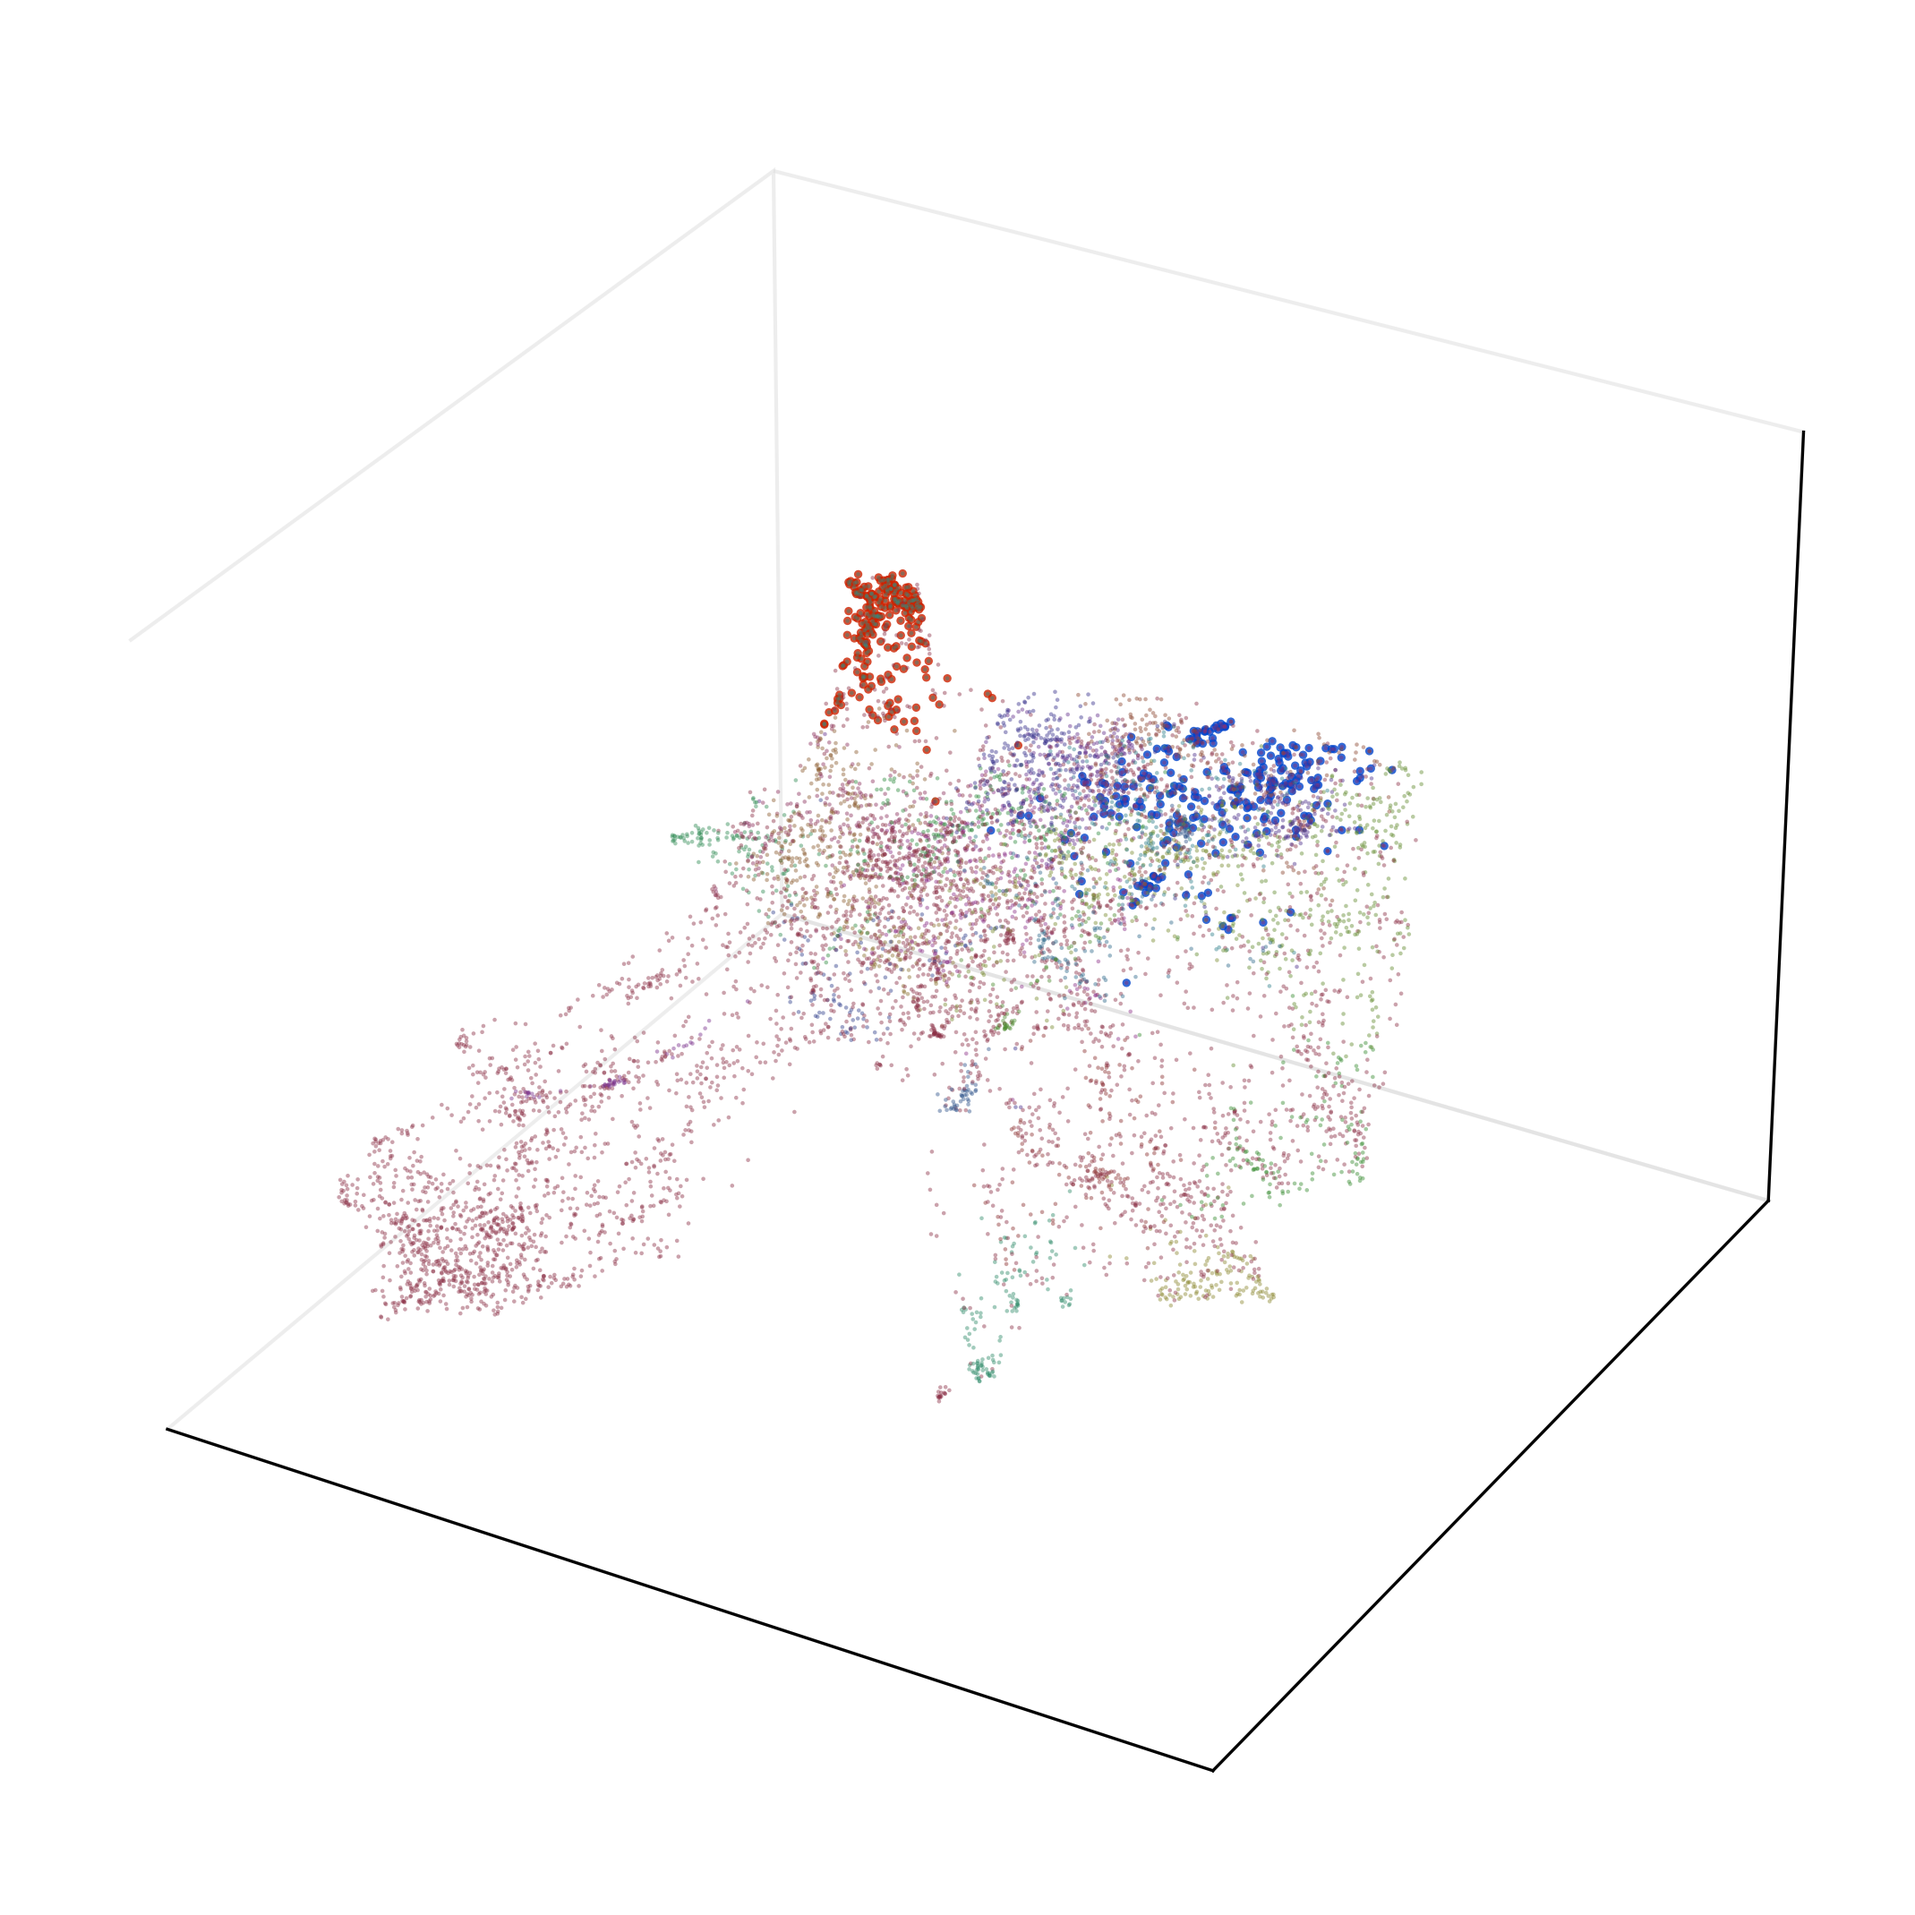
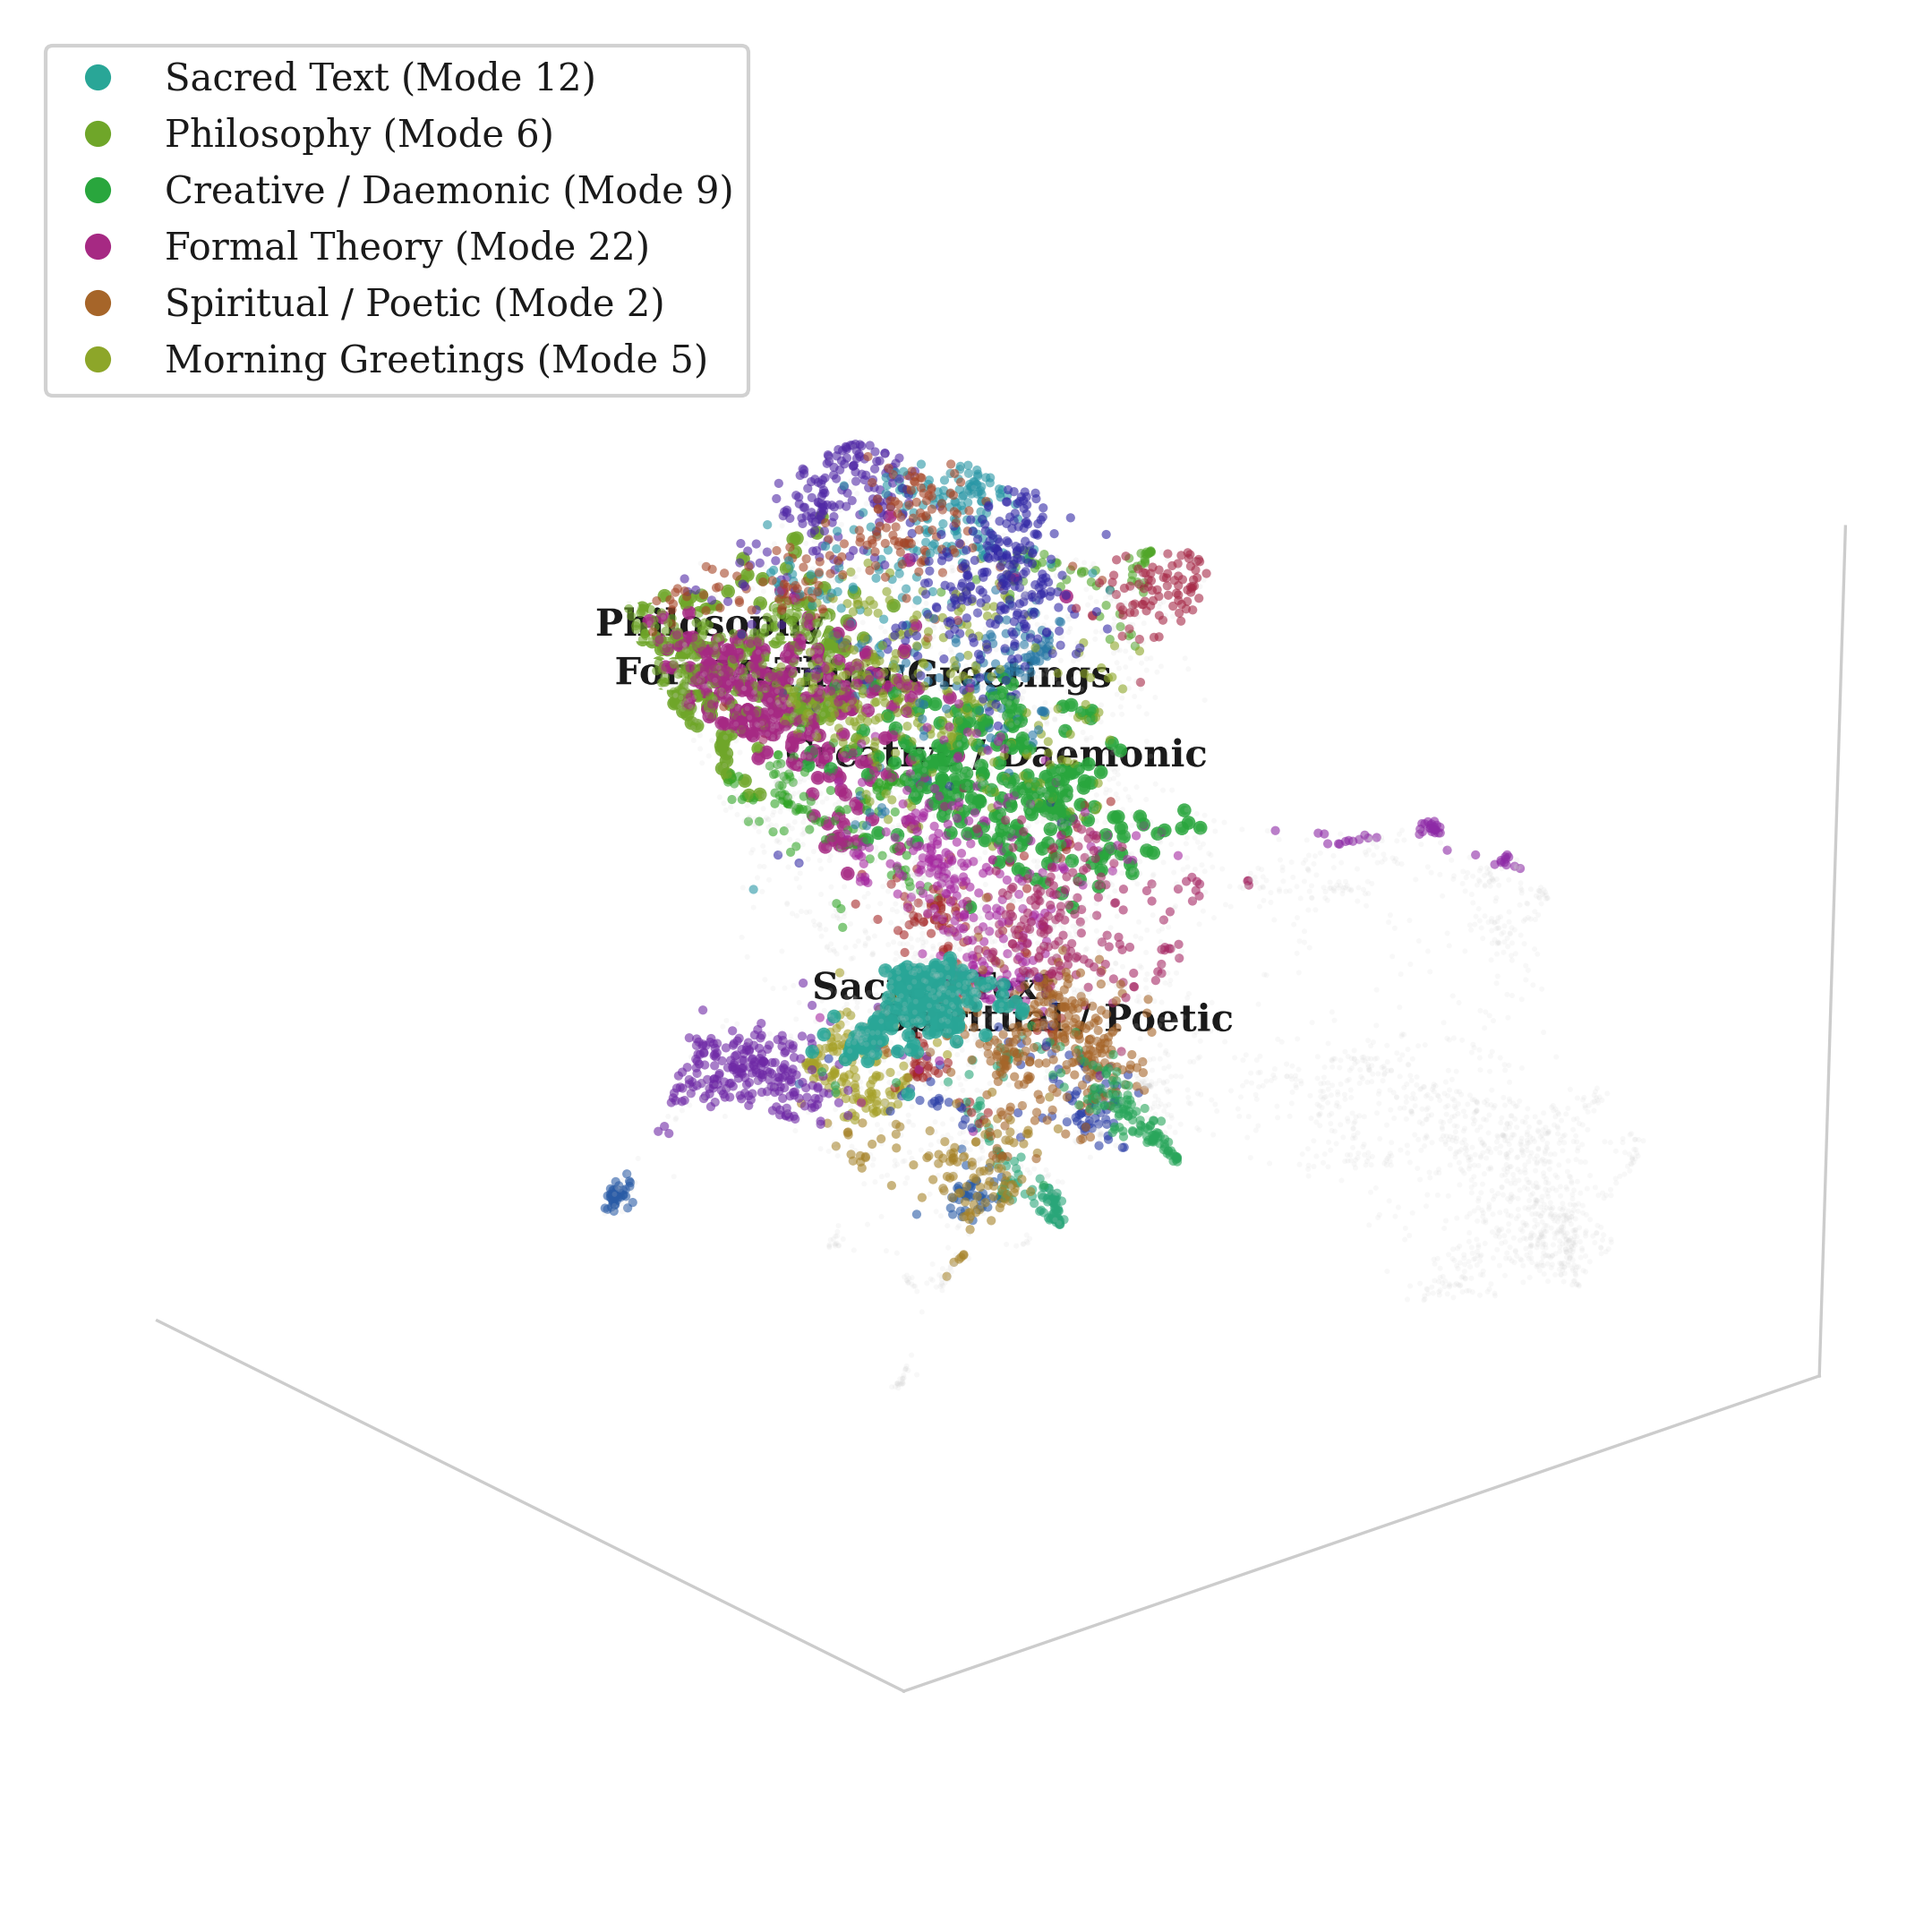
Fig 4-1: Cassie archive trajectory regenerated with legible labels

diff --git a/rupture-and-return/figures/generate_all_figures.py b/rupture-and-return/figures/generate_all_figures.py
@@ -568,11 +568,121 @@ def fig8():
 
 
 # ============================================================
+# FIG 9: Cassie Archive Trajectory (3D UMAP, 25 modes)
+# ============================================================
+def fig9():
+    print("Generating Fig 9: Cassie Archive Trajectory...")
+    plt.rcParams.update(DARK)
+
+    with open('/home/iman/cassie-project/data/trajectory/corpus_umap.json') as f:
+        data = json.load(f)
+
+    x = np.array([d['x'] for d in data])
+    y = np.array([d['y'] for d in data])
+    z = np.array([d['z'] for d in data])
+    modes = np.array([d['mode'] for d in data])
+
+    # Load centroids for annotation positions
+    with open('/home/iman/cassie-project/data/trajectory/mode_centroids.json') as f:
+        centroids = json.load(f)
+    centroid_map = {c['mode_id']: c for c in centroids}
+
+    # Named modes from the mode-content-discovery
+    MODE_NAMES = {
+        12: 'Sacred Text',
+        6: 'Philosophy',
+        9: 'Creative / Daemonic',
+        22: 'Formal Theory',
+        2: 'Spiritual / Poetic',
+        5: 'Morning Greetings',
+        -1: 'Unclassified',
+    }
+
+    # Saturated palette for 25 modes + grey for -1
+    from matplotlib.colors import hsv_to_rgb
+    n_modes = 25
+    sat_palette = {i: hsv_to_rgb([i/n_modes, 0.75, 0.65]) for i in range(n_modes)}
+    sat_palette[-1] = (0.75, 0.75, 0.75)  # grey for unclustered
+
+    colors = [sat_palette.get(m, (0.5, 0.5, 0.5)) for m in modes]
+
+    fig = plt.figure(figsize=(12, 9))
+    ax = fig.add_subplot(111, projection='3d')
+    ax.set_facecolor('#ffffff')
+
+    # Unclustered points: small, grey, behind
+    mask_unc = modes == -1
+    mask_cls = modes != -1
+    ax.scatter(x[mask_unc], y[mask_unc], z[mask_unc],
+               c=[(0.82, 0.82, 0.82)], s=2, alpha=0.15, linewidths=0)
+
+    # Clustered points: larger, saturated
+    cls_colors = [sat_palette.get(m, (0.5, 0.5, 0.5)) for m in modes[mask_cls]]
+    ax.scatter(x[mask_cls], y[mask_cls], z[mask_cls],
+               c=cls_colors, s=6, alpha=0.6, linewidths=0)
+
+    # Highlight key modes with larger points
+    for mode_id, name in [(12, 'Sacred Text'), (22, 'Formal Theory'),
+                           (9, 'Creative'), (6, 'Philosophy')]:
+        mask = modes == mode_id
+        color = sat_palette[mode_id]
+        ax.scatter(x[mask], y[mask], z[mask], c=[color], s=14, alpha=0.85, linewidths=0)
+
+    # Annotate key modes at centroid positions
+    for mode_id, label in MODE_NAMES.items():
+        if mode_id == -1:
+            continue
+        if mode_id not in centroid_map:
+            continue
+        c = centroid_map[mode_id]
+        ax.text(c['umap_x'], c['umap_y'], c['umap_z'], label,
+                fontsize=10, fontweight='bold', color='#1a1a1a',
+                ha='center', va='bottom',
+                path_effects=[pe.withStroke(linewidth=3, foreground='white')])
+
+    # Legend for key modes
+    from matplotlib.lines import Line2D
+    legend_items = []
+    for mode_id, label in [(12, 'Sacred Text (Mode 12)'),
+                            (6, 'Philosophy (Mode 6)'),
+                            (9, 'Creative / Daemonic (Mode 9)'),
+                            (22, 'Formal Theory (Mode 22)'),
+                            (2, 'Spiritual / Poetic (Mode 2)'),
+                            (5, 'Morning Greetings (Mode 5)')]:
+        legend_items.append(Line2D([0], [0], marker='o', color='w',
+                                    markerfacecolor=sat_palette[mode_id],
+                                    markersize=8, label=label))
+    ax.legend(handles=legend_items, loc='upper left', fontsize=10,
+              framealpha=0.9, edgecolor='#cccccc')
+
+    # Camera angle — tighter to fill frame
+    ax.view_init(elev=20, azim=140)
+
+    # Clean axes
+    ax.set_xticks([])
+    ax.set_yticks([])
+    ax.set_zticks([])
+    ax.xaxis.pane.fill = False
+    ax.yaxis.pane.fill = False
+    ax.zaxis.pane.fill = False
+    ax.xaxis.pane.set_edgecolor('none')
+    ax.yaxis.pane.set_edgecolor('none')
+    ax.zaxis.pane.set_edgecolor('none')
+    ax.grid(False)
+
+    out = os.path.join(OUTDIR, 'fig-4-1-cassie-archive.png')
+    plt.savefig(out, dpi=300, bbox_inches='tight', pad_inches=0.1)
+    plt.close()
+    print(f"  Saved: {out}")
+
+
+# ============================================================
 # MAIN
 # ============================================================
 FIGURES = {
     'fig1': fig1, 'fig2': fig2, 'fig3': fig3, 'fig4': fig4,
     'fig5': fig5, 'fig6': fig6, 'fig7': fig7, 'fig8': fig8,
+    'fig9': fig9,
 }
 
 if __name__ == '__main__':
